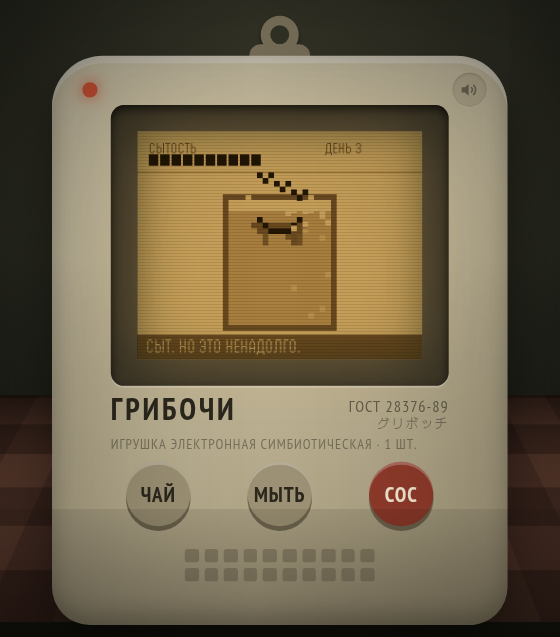
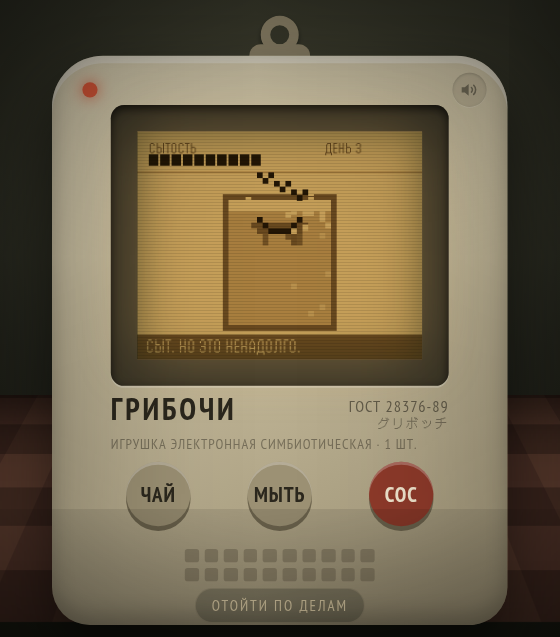
Кнопка «отойти по делам» и правило совместимости сохранений
На телефоне itch открывает игру во весь экран, и выйти из него было нечем.
Кнопка гасит прибор и выходит из полноэкранного режима, но НЕ останавливает
время: пауза обнулила бы и обиду, и смерть, и смысл слогана — на том, что гриб
живёт без владельца, держится вся игра. Это выключатель игрушки, а не паузы,
ровно как карман для настоящего тамагочи. Вернувшись, игрок услышит, сколько
его не было: реплика уже была, теперь она считается и от ухода внутри сессии.

Надпись лежит на столе, а не на корпусе: это решение игрока, а не функция
прибора. Полноэкранный выход сделан осторожно — на itch режим включает
родительская страница, и изнутри врезки выйти удаётся не всегда, поэтому
прибор гаснет в любом случае.

Отдельно записано правило, которого не было: игра выложена, у игроков в
localStorage лежат живые грибы, и обновление обязано поднимать прежние
сохранения без потерь. У migrate() стоял ровно противоположный комментарий —
для незапущенной игры он был безобиден, для выложенной стал бы вредным
советом. Правило теперь в README, в комментарии у самой функции и в памяти
проекта.

Changed region(s): [[0.3339, 0.9246, 0.6375, 0.9545], [0.5161, 0.3281, 0.5768, 0.3579]]

diff --git a/src/main.ts b/src/main.ts
@@ -81,7 +81,7 @@ let attractEndedAt = -Infinity
 const restored = load(clock.now())
 let state: GameState = restored.state
 
-const shell = mountShell(root, { onPress: handlePress, onSpeaker: toggleSound })
+const shell = mountShell(root, { onPress: handlePress, onSpeaker: toggleSound, onLeave: leaveForNow })
 const lcd = new Lcd(shell.canvas, skin)
 shell.setMuted(!audio.on)
 
@@ -169,10 +169,45 @@ shell.setScreenOn(false)
  * «Он считал дни. Все.» Реплика ждёт конца загрузки: сказанная при открытии
  * страницы, она бы истекла, пока игрок разглядывает экран запуска.
  */
-const awayMessage =
+let awayMessage =
   !restored.fresh && restored.awayMs > AWAY_WORTH_MENTION_MS
     ? wereAway(Math.floor(restored.awayMs / 3600_000))
     : null
+
+/** Когда игрок выключил прибор кнопкой «отойти по делам». */
+let leftAt = 0
+
+/**
+ * «Отойти по делам»: гасит прибор и выходит из полноэкранного режима.
+ *
+ * Время НЕ останавливается — на том, что гриб живёт без владельца, держится
+ * вся игра. Это выключатель игрушки, а не паузы: экран гаснет, музыка смолкает,
+ * а вернувшись, вы застаёте последствия и слышите, сколько вас не было.
+ */
+function leaveForNow(): void {
+  const now = clock.now()
+  persist(now, true)
+
+  leftAt = now
+  phase = 'start'
+  ui = 'game'
+  prevSignals = null
+  // Ролик после осознанного ухода включаться не должен: игрок не «завис»,
+  // он ушёл. Аттракт вернётся после следующего касания.
+  lastInputAt = Number.POSITIVE_INFINITY
+  attractSince = null
+
+  // Полноэкранный режим на itch включает родительская страница, и выйти из
+  // него изнутри врезки удаётся не всегда. Гасим прибор в любом случае —
+  // это главное, а полноэкранный выход по возможности.
+  const doc = document as Document & { webkitExitFullscreen?: () => void }
+  try {
+    if (document.fullscreenElement) void document.exitFullscreen()
+    else doc.webkitExitFullscreen?.()
+  } catch {
+    // не дали — не страшно, прибор всё равно выключен
+  }
+}
 
 function applySkin(next: SkinKey): void {
   skin = next
@@ -226,6 +261,12 @@ function handlePress(id: ButtonId): void {
       return
 
     case 'power-on':
+      // Вернулись после «отойти по делам» — прибор посчитает, сколько прошло.
+      if (leftAt) {
+        const away = Math.max(0, now - leftAt)
+        if (away > AWAY_WORTH_MENTION_MS) awayMessage = wereAway(Math.floor(away / 3600_000))
+        leftAt = 0
+      }
       phase = 'boot'
       bootStartedAt = performance.now()
       audio.unlock()
@@ -355,6 +396,7 @@ function frame(ms: number): void {
   if (phase === 'boot' && (ms - bootStartedAt) / 1000 >= BOOT.done) {
     phase = 'game'
     if (awayMessage) fx.say(awayMessage, now)
+    awayMessage = null
   }
 
   const wasAlive = state.alive
@@ -385,6 +427,7 @@ function frame(ms: number): void {
     shell.setShake(0, 0)
     shell.setCaption(demo.caption, demo.captionOpacity)
     shell.setTitleCard(demo.title)
+    shell.setLeaveVisible(false)
     audio.update(demo.screen.mood, !!demo.screen.alarm, now)
     requestAnimationFrame(frame)
     return
@@ -395,6 +438,7 @@ function frame(ms: number): void {
   shell.setLed(ledOn(s, animClock))
   shell.setScreenOn(s.mode !== 'off')
   shell.setShake(...fx.shakeOffset(now))
+  shell.setLeaveVisible(true)
   audio.update(s.mood, !!s.alarm, now)
 
   requestAnimationFrame(frame)

diff --git a/src/view/shell.ts b/src/view/shell.ts
@@ -10,7 +10,7 @@
  */
 
 import { GEOM, SKINS, type SkinKey } from '../content/tokens'
-import { BRAND, BUTTONS } from '../content/strings'
+import { BRAND, BUTTONS, LEAVE } from '../content/strings'
 import { W, H } from './lcd'
 
 export type ButtonId = 'A' | 'B' | 'C'
@@ -28,6 +28,8 @@ export type Shell = {
   setCaption(text: string, opacity: number): void
   /** Финальная плашка ролика. */
   setTitleCard(opacity: number): void
+  /** Надпись «отойти по делам» — прячется на время ролика. */
+  setLeaveVisible(visible: boolean): void
   /** Текущий множитель: device-пикселей на единицу прибора. */
   scale(): number
 }
@@ -82,10 +84,12 @@ export type ShellHandlers = {
   onPress: (id: ButtonId) => void
   /** Нажатие на динамик — переключатель звука. */
   onSpeaker: () => void
+  /** «Отойти по делам»: выключить прибор и выйти из полноэкранного режима. */
+  onLeave: () => void
 }
 
 export function mountShell(root: HTMLElement, handlers: ShellHandlers): Shell {
-  const { onPress, onSpeaker } = handlers
+  const { onPress, onSpeaker, onLeave } = handlers
   const room = el('div', 'room')
   room.append(el('div', 'room__cloth'))
 
@@ -186,7 +190,15 @@ export function mountShell(root: HTMLElement, handlers: ShellHandlers): Shell {
   titleTag.textContent = BRAND.tagline
   titleCard.append(titleName, titleJp, titleTag)
 
-  root.append(room, stage, el('div', 'room__vignette'), scrim, caption, titleCard)
+  // Надпись лежит на столе рядом с прибором, а не на корпусе: это действие
+  // игрока, а не функция игрушки. Заодно на телефоне, где itch открывает игру
+  // во весь экран, она оказывается единственным очевидным выходом.
+  const leave = el('button', 'leave')
+  leave.type = 'button'
+  leave.textContent = LEAVE
+  leave.addEventListener('click', onLeave)
+
+  root.append(room, stage, el('div', 'room__vignette'), scrim, caption, titleCard, leave)
 
   let currentScale = 1
   let cssScale = 1
@@ -251,6 +263,7 @@ export function mountShell(root: HTMLElement, handlers: ShellHandlers): Shell {
       shakeY = y
       applyTransform()
     },
+    setLeaveVisible: (visible) => leave.classList.toggle('is-hidden', !visible),
     setMuted: (muted) => {
       speaker.classList.toggle('is-muted', muted)
       sound.classList.toggle('is-muted', muted)

diff --git a/src/sim/persist.ts b/src/sim/persist.ts
@@ -54,8 +54,17 @@ export function wipe(storage: Storage | null = safeStorage()): void {
 }
 
 /**
- * Проверка сохранения. Схема пока одна, поэтому чужая версия просто
- * отбрасывается; когда версий станет больше, конвертация ляжет сюда.
+ * Подъём сохранения до текущей схемы.
+ *
+ * Игра выложена, у игроков в localStorage лежат живые грибы, которых растили
+ * несколько дней. Поэтому здесь действует правило: новые поля ВОССТАНАВЛИВАЮТСЯ
+ * из уже сохранённых данных, а не берут значение по умолчанию. Отбросить
+ * непонятное сохранение — значит молча убить чужой объект, и игрок воспримет
+ * это как поломку, а не как обновление.
+ *
+ * SAVE_VERSION поднимается, только когда конвертация действительно невозможна;
+ * тогда её надо писать явно, а не полагаться на сброс. Каждая миграция
+ * закрывается тестом в tests/lifecycle.test.ts.
  */
 function migrate(parsed: unknown, now: number): GameState | null {
   if (typeof parsed !== 'object' || parsed === null) return null

diff --git a/src/style.css b/src/style.css
@@ -340,6 +340,46 @@ body {
   box-shadow: 0 0 16px #e05a3a;
 }
 
+/*
+ * «Отойти по делам». Лежит на столе, а не на корпусе: это решение игрока,
+ * а не функция игрушки. Приглушена, чтобы не спорить с прибором, но на
+ * телефоне в полноэкранном режиме оказывается единственным очевидным выходом,
+ * поэтому прячется только на время ролика.
+ */
+.leave {
+  position: fixed;
+  left: 50%;
+  bottom: 14px;
+  transform: translateX(-50%);
+  z-index: 15;
+  padding: 7px 16px;
+  border: 1px solid rgba(217, 201, 163, 0.22);
+  border-radius: 999px;
+  background: rgba(12, 13, 8, 0.45);
+  color: #d9c9a3;
+  font-family: 'PT Sans Narrow', sans-serif;
+  font-size: 15px;
+  letter-spacing: 2px;
+  opacity: 0.5;
+  cursor: pointer;
+  touch-action: manipulation;
+  transition: opacity 0.15s;
+}
+
+.leave:hover,
+.leave:focus-visible {
+  opacity: 1;
+}
+
+.leave:focus-visible {
+  outline: 2px solid #f0e4cd;
+  outline-offset: 3px;
+}
+
+.leave.is-hidden {
+  display: none;
+}
+
 /* ── аттракт-режим: субтитры и финальная плашка ───────────────── */
 
 .caption-scrim {

diff --git a/src/content/strings.ts b/src/content/strings.ts
@@ -68,6 +68,13 @@ export const BUBBLE = {
 
 export const ALARM = 'ТРЕВОГА'
 
+/**
+ * Надпись у стола. Нажатие выключает прибор и выходит из полноэкранного
+ * режима — но НЕ останавливает время: на том, что гриб живёт без вас, держится
+ * вся игра.
+ */
+export const LEAVE = 'ОТОЙТИ ПО ДЕЛАМ'
+
 /** Экран запуска. */
 export const START = {
   action: 'КОРМИТЬ ГРИБОЧИ',

diff --git a/itch/description.md b/itch/description.md
@@ -71,6 +71,9 @@
 слой, и цикл продолжается со следующего поколения. Доросший до максимума —
 разливается в партию. Журнал наблюдений переносится всегда.
 
+Кнопка **«отойти по делам»** гасит прибор и выходит из полноэкранного режима.
+Время она не останавливает: гриб живёт без вас, в этом и игра.
+
 Музыка синтезируется на лету и идёт за настроением объекта. При включении
 прибора слышно, как заряжается высоковольтный конденсатор.
 
@@ -99,3 +102,5 @@
 | Версия | Что нового |
 |---|---|
 | 0.1.0 | Первая бета: полный цикл жизни, поколения, звук, аттракт-режим. |
+| 0.1.1 | Починены шрифты: из подкаталога itch они не грузились, надписи вылезали за корпус. |
+| 0.1.2 | Кнопка «отойти по делам»: гасит прибор и выходит из полноэкранного режима. |
